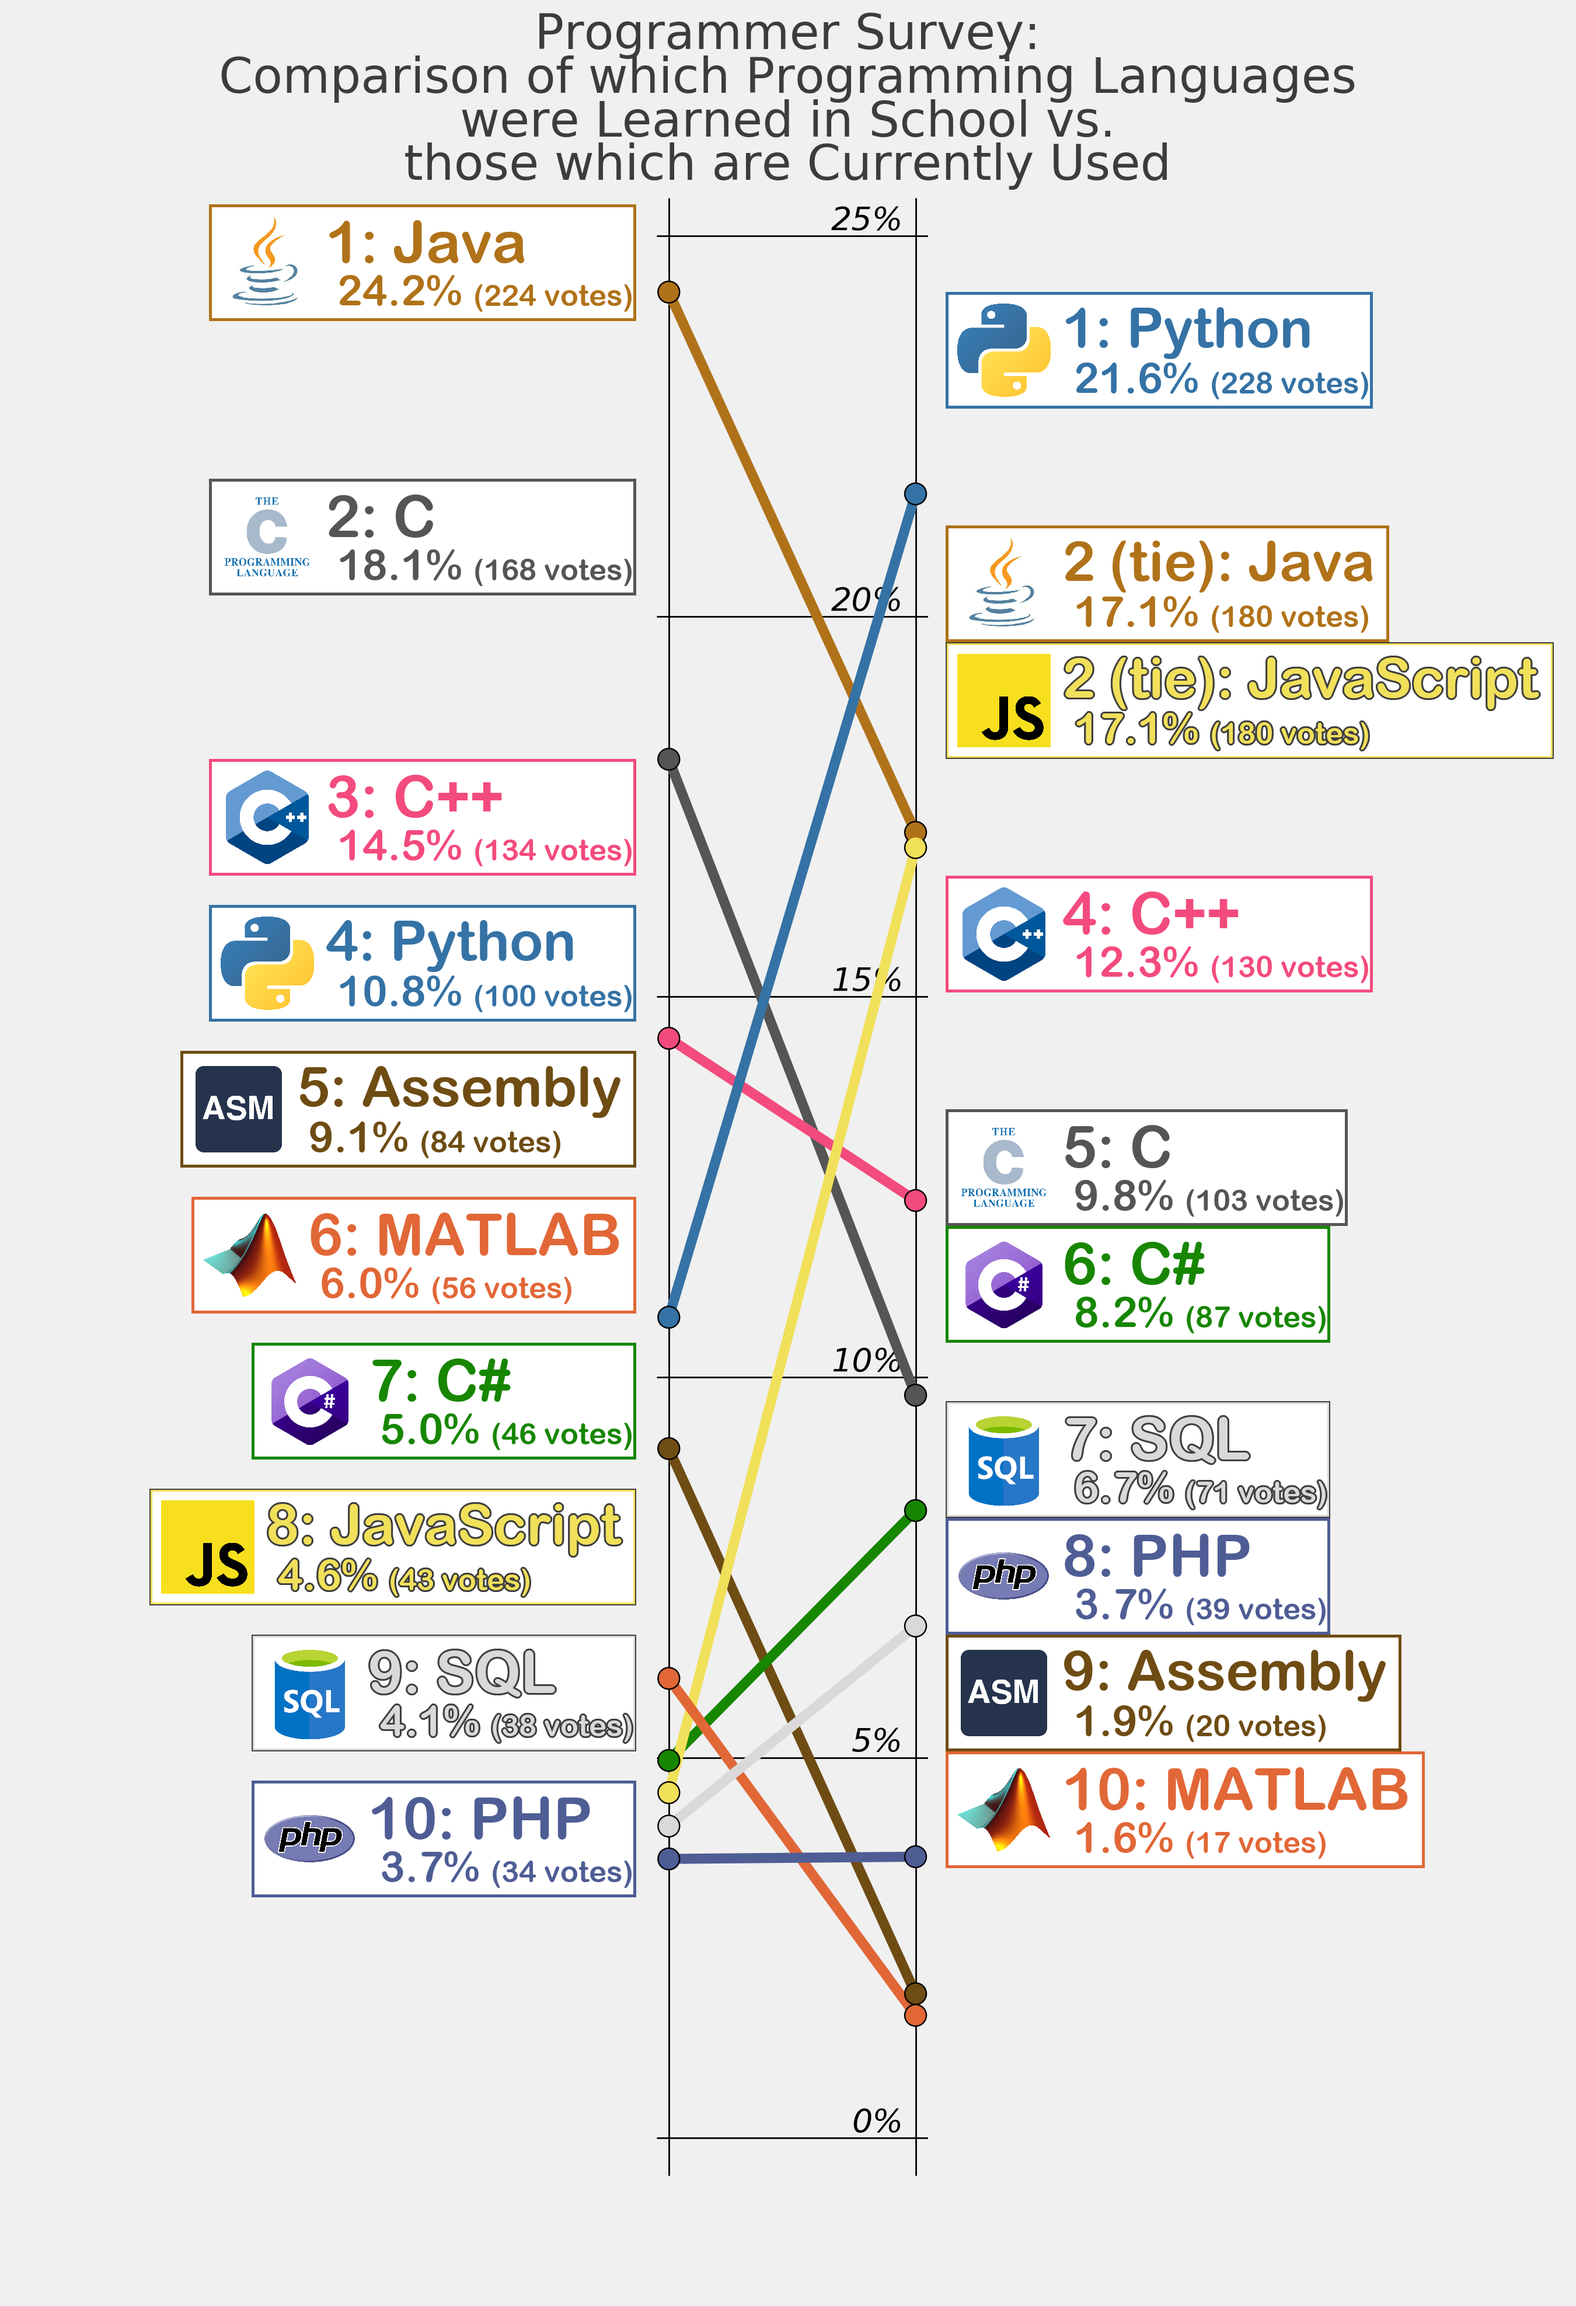
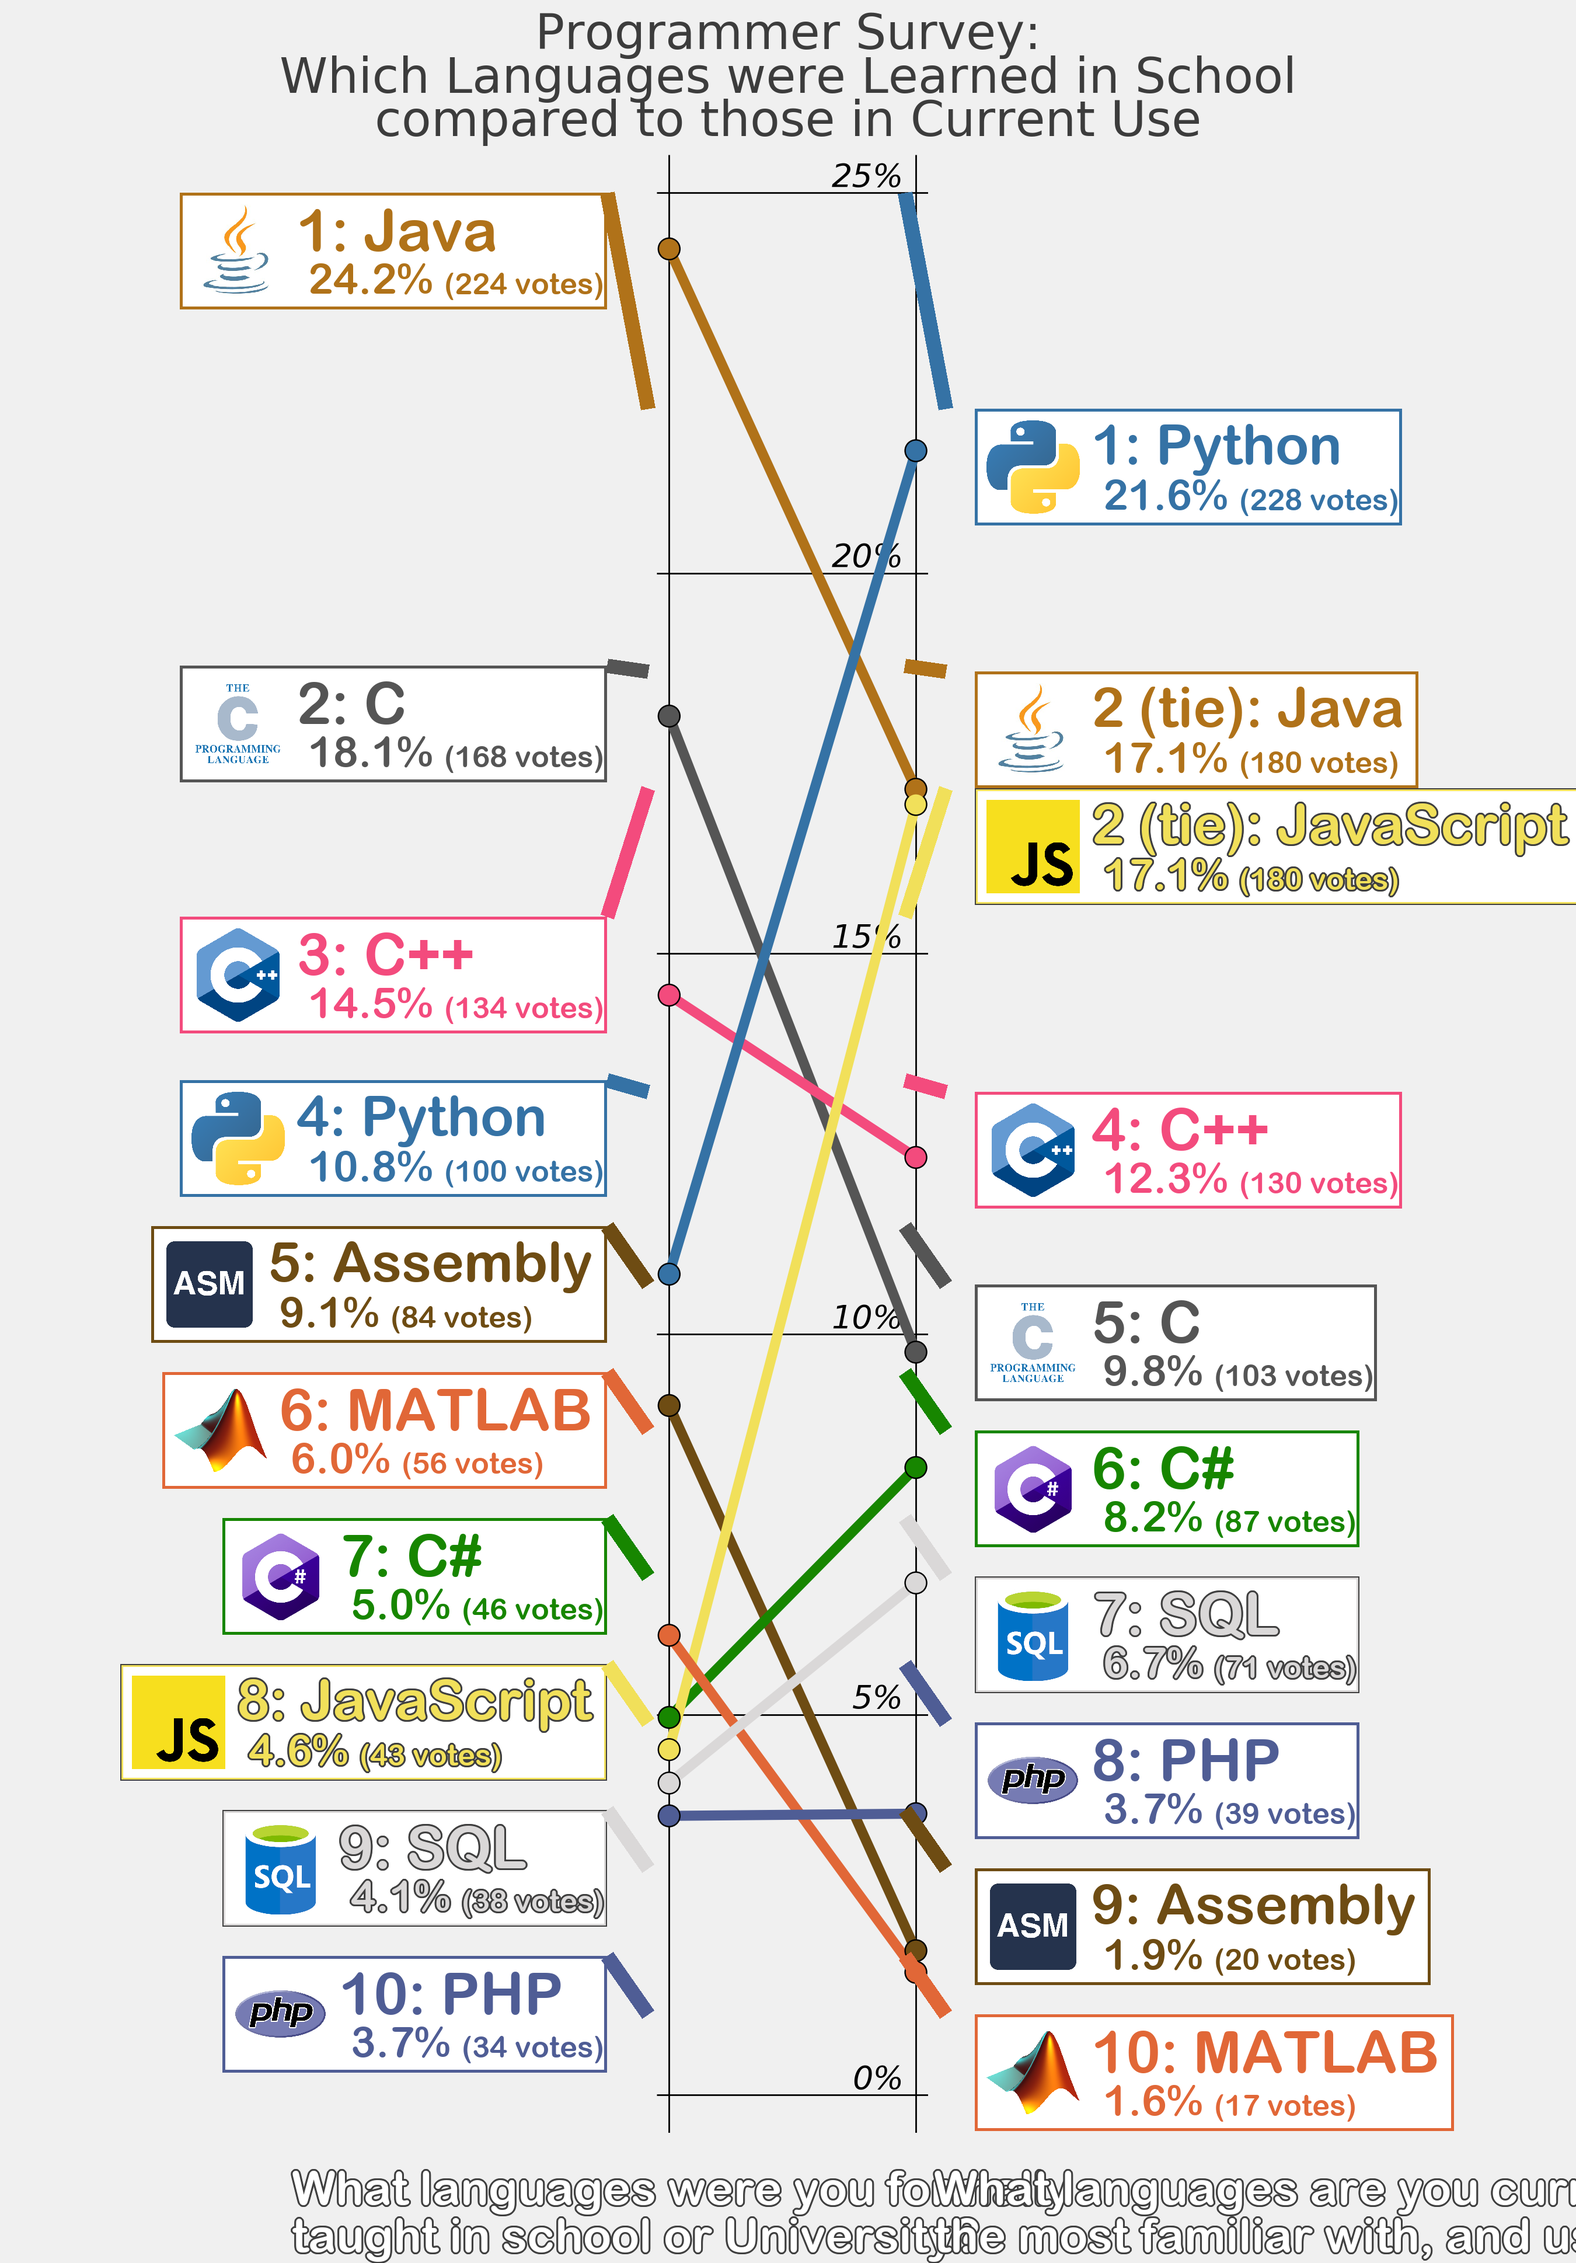
xaxis fix, label lines created

diff --git a/SurveyGraph.py b/SurveyGraph.py
@@ -263,7 +263,7 @@ parallel_ggplot = (ggplot(mapping = aes(x = 'QType', y = 'Percent'),
 				   scale_y_continuous(limits = (0,0.25),
 									  breaks = list(np.arange(0,0.3,0.05)),
 									  expand = (0.02,0)) +
-				   labs(title = 'Programmer Survey:\nComparison of which Programming Languages\nwere Learned in School vs.\nthose which are Currently Used',
+				   labs(title = 'Programmer Survey:\nWhich Languages were Learned in School\ncompared to those in Current Use',
 						x = 'Question', y = 'Percentage') +
 				   theme_538() +
 				   theme(axis_title_y = element_blank(), axis_text_y = element_blank(),
@@ -285,18 +285,21 @@ fullPlot_img.paste(paraPlot_img, box = (int(1350 - (paraPlot_img.size[0]/2)), 0)
 
 """
 STEP 3B: pasting the Lang Labels onto the sides of the plot
+then Lines
+pasting Question text
 """
+''' Lang Labels '''
 # defining the qAndLang To PlotPosition dict
-qAndLang_to_plotYPosition_dict = {'Q1Academic_1Java': 350, 'Q1Academic_2C': 820,
-								  'Q1Academic_3C++': 1300, 'Q1Academic_4Python': 1550,
-								  'Q1Academic_5Assembly' : 1800, 'Q1Academic_6MATLAB': 2050,
-								  'Q1Academic_7C#': 2300, 'Q1Academic_8JavaScript': 2550,
-								  'Q1Academic_9SQL': 2800, 'Q1Academic_10PHP': 3050,
-								  'Q2Current_1Python': 500,  'Q2Current_2Java':900,
-								  'Q2Current_3JavaScript': 1100, 'Q2Current_4C++': 1500,
-								  'Q2Current_5C': 1900, 'Q2Current_6C#': 2100,
-								  'Q2Current_7SQL': 2400, 'Q2Current_8PHP': 2600,
-								  'Q2Current_9Assembly': 2800, 'Q2Current_10MATLAB': 3000}
+qAndLang_to_plotYPosition_dict = {'Q1Academic_1Java': 330, 'Q1Academic_2C': 1140,
+								  'Q1Academic_3C++': 1570, 'Q1Academic_4Python': 1850,
+								  'Q1Academic_5Assembly' : 2100, 'Q1Academic_6MATLAB': 2350,
+								  'Q1Academic_7C#': 2600, 'Q1Academic_8JavaScript': 2850,
+								  'Q1Academic_9SQL': 3100, 'Q1Academic_10PHP': 3350,
+								  'Q2Current_1Python': 700,  'Q2Current_2Java':1150,
+								  'Q2Current_3JavaScript': 1350, 'Q2Current_4C++': 1870,
+								  'Q2Current_5C': 2200, 'Q2Current_6C#': 2450,
+								  'Q2Current_7SQL': 2700, 'Q2Current_8PHP': 2950,
+								  'Q2Current_9Assembly': 3200, 'Q2Current_10MATLAB': 3450}
 
 # iterating through each LangLabel image, pasting the Label where it belongs on the ParaPlot
 for qAndLang_str, label_imageObj in labels_imageObj_dict.items():
@@ -304,12 +307,84 @@ for qAndLang_str, label_imageObj in labels_imageObj_dict.items():
 	try:
 		if 'Academic' in qAndLang_str:
 			fullPlot_img.paste(label_imageObj,
-							   (1090 - label_imageObj.size[0] ,qAndLang_to_plotYPosition_dict[qAndLang_str]))
+							   (1040 - label_imageObj.size[0] ,qAndLang_to_plotYPosition_dict[qAndLang_str]))
 		elif 'Current' in qAndLang_str:
 			fullPlot_img.paste(label_imageObj,
-							   (1620 ,qAndLang_to_plotYPosition_dict[qAndLang_str]))
+							   (1670 ,qAndLang_to_plotYPosition_dict[qAndLang_str]))
 	except KeyError:
 		print(f'{qAndLang_str} missing')
+
+'''Lines to labels '''
+# creating draw object
+fullPlot_draw = ImageDraw.Draw(fullPlot_img)
+
+# defining Q1 LineToLabels DataFrame
+q1_lineToLabels_df = pd.DataFrame({"Language": q1_df['Language'],
+								   'Color': q1_df['Language'].map(colors_ref['color']),
+								   'Start_xy': [(1040, y_pos) for y_pos in
+												[330, 1140, 1570, 1850, 2100, 2350, 2600, 2850, 3100, 3350]],
+								   'End_xy': [(1110, y_pos) for y_pos in 
+											  [700, 1150, 1350, 1870, 2200, 2450, 2700, 2950, 3200, 3450]]})
+# plotting each line
+for tmp_i, tmp_row in q1_lineToLabels_df.iterrows():
+	fullPlot_draw.line(xy = [tmp_row['Start_xy'], tmp_row['End_xy']], fill = tmp_row['Color'], width = 25)
+
+# defining Q2 LineTOLabels DF
+q2_lineToLabels_df = pd.DataFrame({"Language": q2_df['Language'],
+								   'Color': q2_df['Language'].map(colors_ref['color']),
+								   'Start_xy': [(1550, y_pos) for y_pos in
+												[330, 1140, 1570, 1850, 2100, 2350, 2600, 2850, 3100, 3350]],
+								   'End_xy': [(1620, y_pos) for y_pos in 
+											  [700, 1150, 1350, 1870, 2200, 2450, 2700, 2950, 3200, 3450]]})
+# plotting each line
+for tmp_i, tmp_row in q2_lineToLabels_df.iterrows():
+	fullPlot_draw.line(xy = [tmp_row['Start_xy'], tmp_row['End_xy']], fill = tmp_row['Color'], width = 25)
+
+'''Questions X Axis '''
+# defining font
+question_xaxis_fnt = ImageFont.truetype('ARLRDBD.TTF', 80)
+
+'''Q1'''
+# defining Question1 _Position
+question1_position = (500,3700)
+# defining Q1 Str
+question1_textstr = "What languages were you formally\ntaught in school or University?"
+
+# drawing black background
+for position_tup in (list(it.product(np.arange(question1_position[0] - 3, question1_position[0] + 4), [question1_position[1] + 1])) +	#bottom border
+					 list(it.product(np.arange(question1_position[0] - 1, question1_position[0] + 2), [question1_position[1] + 2])) +	#bottom border extra
+					 list(it.product(np.arange(question1_position[0] - 3, question1_position[0] + 4), [question1_position[1] - 1])) +	#top border
+					 list(it.product(np.arange(question1_position[0] - 1, question1_position[0] + 2), [question1_position[1] - 2])) +	#top border extra
+					 list(it.product([question1_position[0] - 1], np.arange(question1_position[1] -3, question1_position[1] +4))) +	#left border
+					 list(it.product([question1_position[0] - 2], np.arange(question1_position[1] -1, question1_position[1] +2))) +	#left border extra
+					 list(it.product([question1_position[0] + 1], np.arange(question1_position[1] -3, question1_position[1] +4))) +	#right border
+					 list(it.product([question1_position[0] + 2], np.arange(question1_position[1] -1, question1_position[1] +2)))):	#right border extra
+	# drawing black shift
+	fullPlot_draw.text(position_tup, question1_textstr, fill = '#3f3f3f', font = question_xaxis_fnt)
+
+# drawing White Center
+fullPlot_draw.text(question1_position, question1_textstr, fill = 'white', font = question_xaxis_fnt)
+
+'''Q2'''
+# defining Question1 _Position
+question2_position = (1600,3700)
+# defining Q1 Str
+question2_textstr = "What languages are you currently\nthe most familiar with, and use\non a regular basis?"
+
+# drawing black background
+for position_tup in (list(it.product(np.arange(question2_position[0] - 3, question2_position[0] + 4), [question2_position[1] + 1])) +	#bottom border
+					 list(it.product(np.arange(question2_position[0] - 1, question2_position[0] + 2), [question2_position[1] + 2])) +	#bottom border extra
+					 list(it.product(np.arange(question2_position[0] - 3, question2_position[0] + 4), [question2_position[1] - 1])) +	#top border
+					 list(it.product(np.arange(question2_position[0] - 1, question2_position[0] + 2), [question2_position[1] - 2])) +	#top border extra
+					 list(it.product([question2_position[0] - 1], np.arange(question2_position[1] -3, question2_position[1] +4))) +	#left border
+					 list(it.product([question2_position[0] - 2], np.arange(question2_position[1] -1, question2_position[1] +2))) +	#left border extra
+					 list(it.product([question2_position[0] + 1], np.arange(question2_position[1] -3, question2_position[1] +4))) +	#right border
+					 list(it.product([question2_position[0] + 2], np.arange(question2_position[1] -1, question2_position[1] +2)))):	#right border extra
+	# drawing black shift
+	fullPlot_draw.text(position_tup, question2_textstr, fill = '#3f3f3f', font = question_xaxis_fnt)
+
+# drawing White Center
+fullPlot_draw.text(question2_position, question2_textstr, fill = 'white', font = question_xaxis_fnt)
 
 # saving fullPlot Image
 fullPlot_img.save("parallel_ggplot.png")
